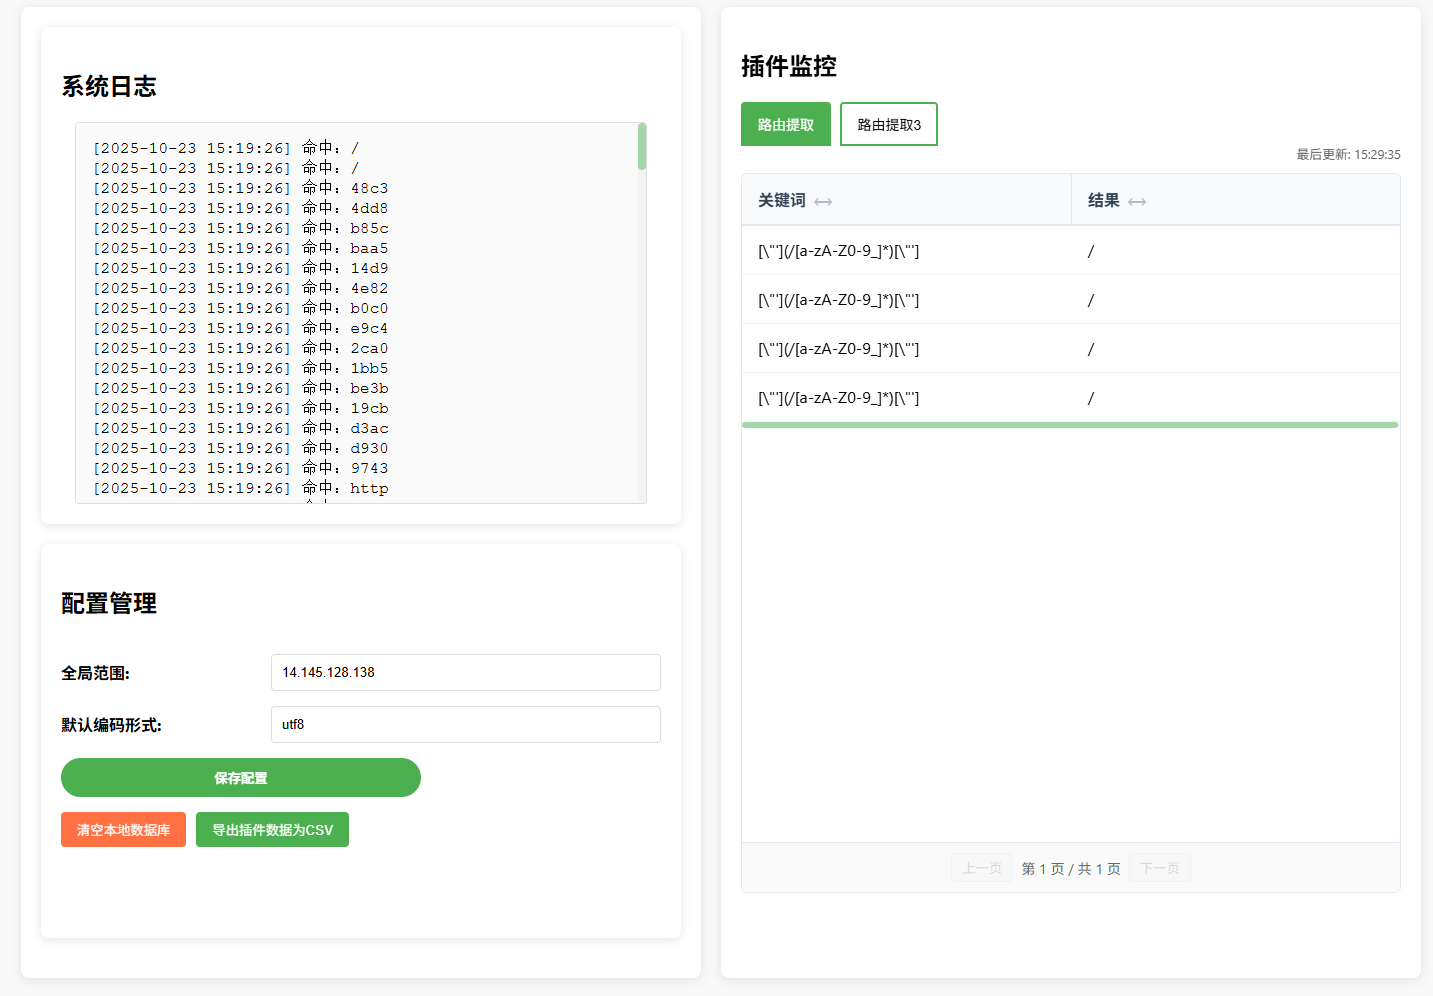
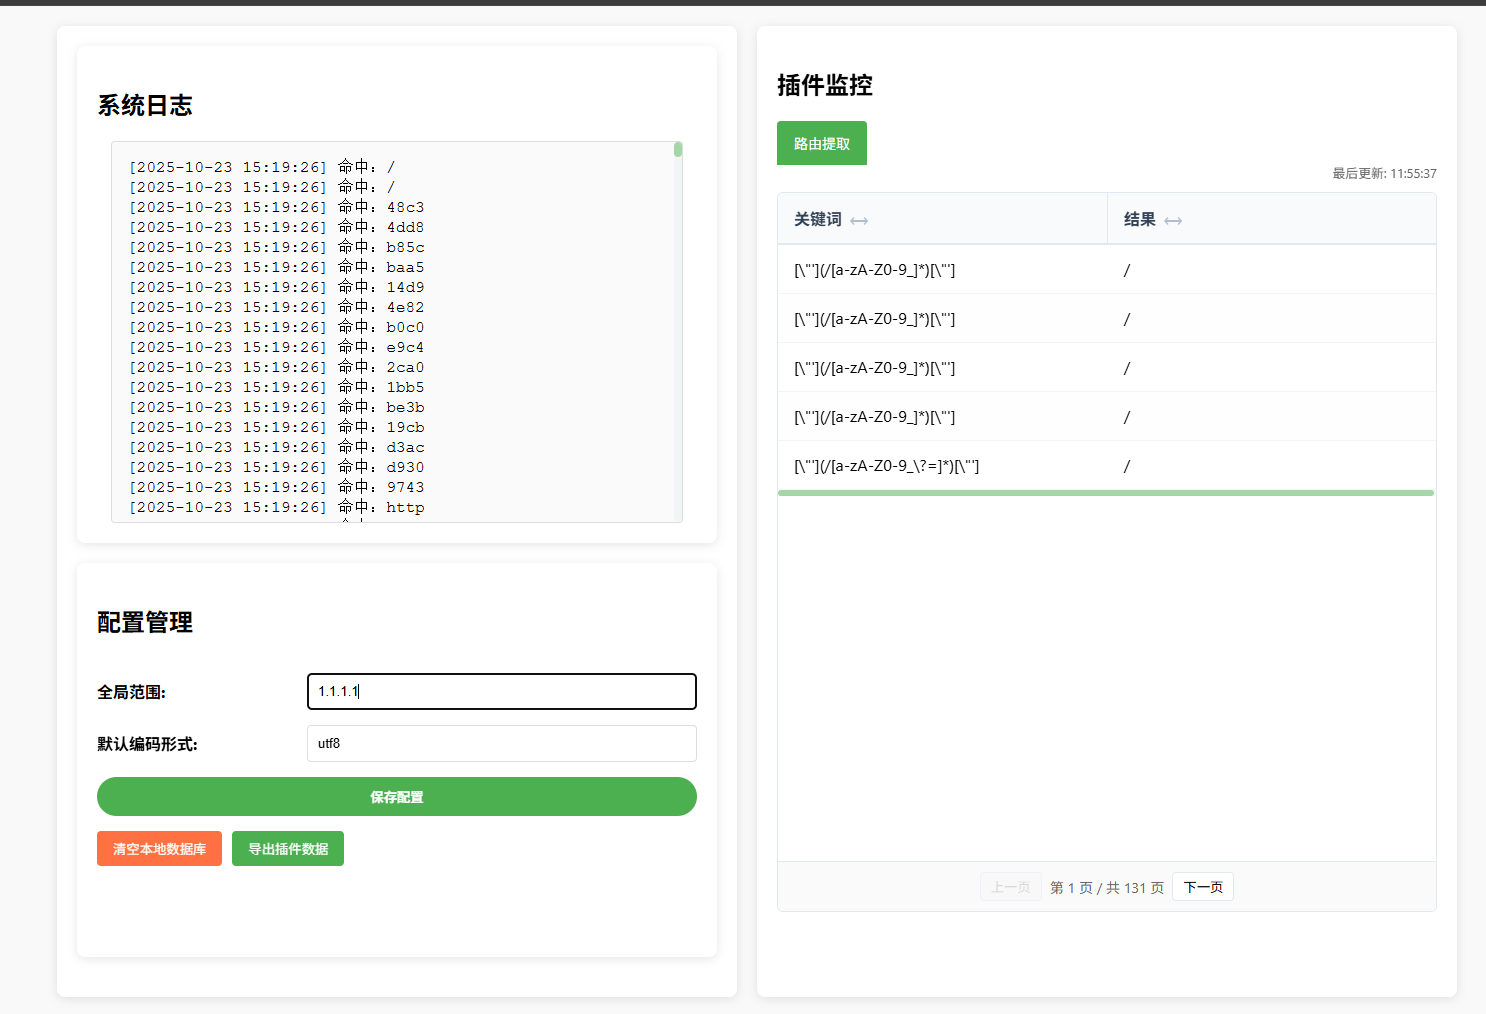
0.1.1
fix

diff --git a/mi/mi_gui.py b/mi/mi_gui.py
@@ -1,4 +1,4 @@
-# GUI类，默认地址为/[TOKEN]-console.mss
+# GUI类，默认地址为/console.mss
 from etc.base import *
 from settings import *
 import os
@@ -8,7 +8,7 @@ from jinja2 import Template
 import json
 
 
-# 这个理论上也是单例，但是这语言写单例麻烦死了
+#这个理论上也是单例，但是这语言写单例麻烦死了
 class Ctx_gui(Ctx_global):
 
     addons=[]
@@ -28,7 +28,6 @@ class Ctx_gui(Ctx_global):
 
     @classmethod
     def get_addons_log(cls):
-        # 只更新增量数据，前端使用IndexedDB存储
         re={}
         for i in cls.addons:
             for k,v in i.addons_log().items():
@@ -43,7 +42,7 @@ class Ctx_gui(Ctx_global):
         print("当前token为："+self.token)
 
     def request(self,flow):
-        # 控制台去掉token设置，不过token还有用
+        #控制台去掉token设置，不过token还有用
         if (flow.request.headers.get("Host") if flow.request.headers.get("Host") else flow.request.host) not in ["mss.local"]: return # console的路径为mss.local/console.mss
         if flow.request.path.endswith("console.mss"): # console就不添加了
             with open("console.html","r",encoding="utf-8") as c: # 

diff --git a/mi/mi_notrace.py b/mi/mi_notrace.py
@@ -43,4 +43,4 @@ class Ctx_drop(Ctx_global):
         for i in self.hint:
             if re.search(i, url):
                 flow.kill()
-# 自动禁止蜜罐信息收集（也就是drop所有qq、知乎、微博、贴吧的包，考虑仅在渗透时开启） 使用Ctx_drop的特定配置。
+# 自动禁止蜜罐信息收集（也就是drop所有qq、知乎、微博、贴吧的包，考虑仅在渗透时开启） 使用Ctx_drop的特定配置。 这个施工中

diff --git a/README.md b/README.md
@@ -26,15 +26,16 @@
 ### 1.1 GUI
 
 本工具支持GUI页面（需要启用插件Ctx_gui），安全起见工具启动时会生成一个token，你也可以在settings里自定义一个固定的token。
+
 ![alt text](img/2.png)
 
-可以通过访问mss.local/console.mss或1.1.1.1/console.mss来使用GUI界面:
+可以通过访问mss.local/console.mss来使用GUI界面:
 
 ![alt text](img/3.png)
 
 由于mitmdump本身输出比较繁杂，组件的输出不但会在终端输出中显示，也会在GUI控制台中显示以便查询。部分继承GUI类的组件在启动时也会在GUI界面注册面板以自定义输出（插件配置请在run.py中修改，这个文件是**热加载**的，所以修改后无需重启即可生效）。
 
-同时，也可以在控制台中自由修改配置。
+同时，也可以在控制台中自由修改全局配置。
 
 ### 1.2 使用示例-加密功能
 
@@ -197,7 +198,7 @@ Ctx_ua(ua)
 
 #### mi_notrace.Ctx_drop < Ctx_global
 自动killurl中带有关键词的包。
-- hint[list] 为**正则表达式**列表，当任意一个正则表达式匹配到URL时丢包，如"4399\.com.*report$"匹配http://www.4399.com/123/report。
+- hint[list] 为**正则表达式**列表，当任意一个正则表达式匹配到URL时丢包，如"4399\.com.*report$"匹配[http://www.4399.com/123/report]()。
 ``` python
 Ctx_drop(
     ["report","aegis.qq.com"]
@@ -273,3 +274,4 @@ Ctx_all(rr,reg,showname="RLOOKUP")
 - 0.0.7 重构合并了Ctx_head和Ctx_content，新增Ctx_drop
 - 0.0.8 新增GUI界面；优化modify模块
 - 0.1.0 GUI完成；优化modify模块并为部分插件增加GUI部分。现在可以通过访问mss.local/console.mss来使用GUI界面^ ^~
+- 0.1.1 文档捉虫；完善GUI内容，增加API提取插件
